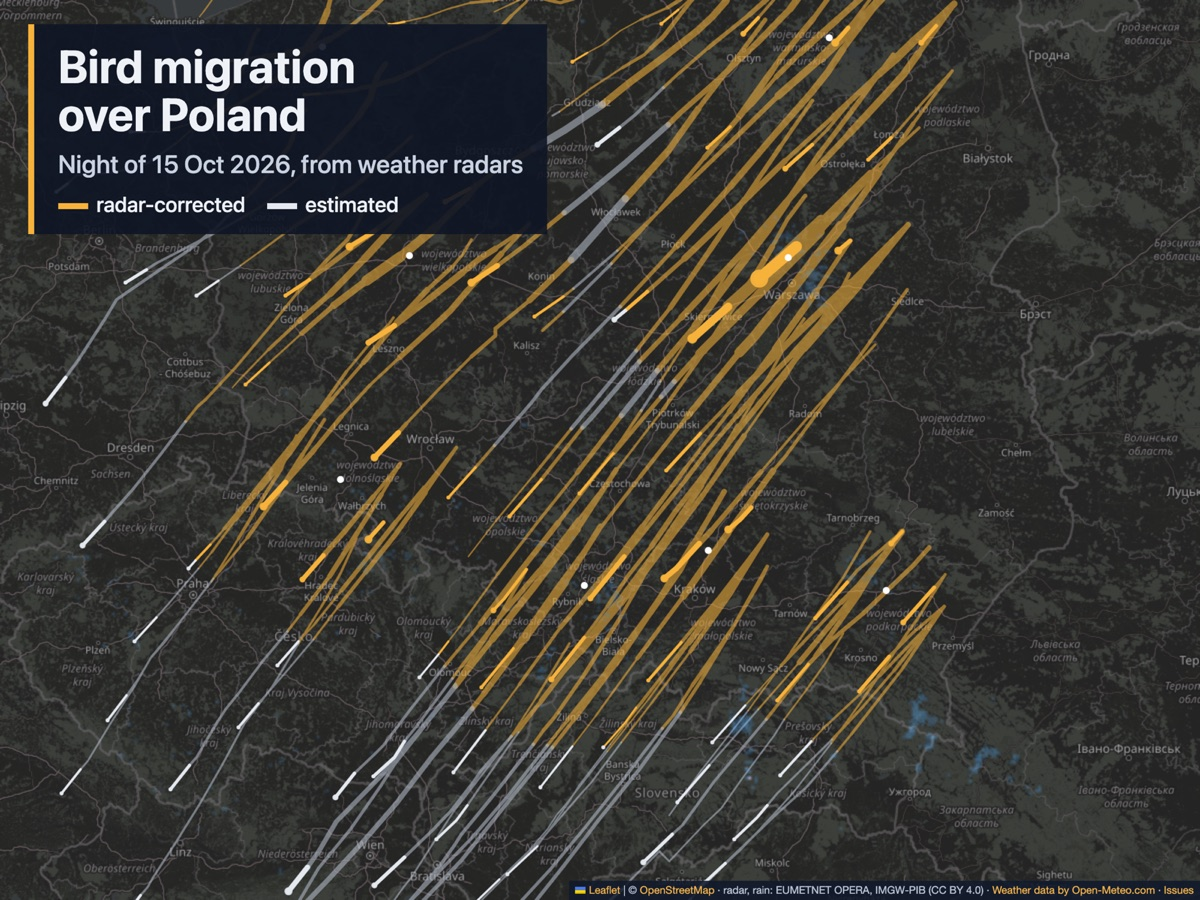
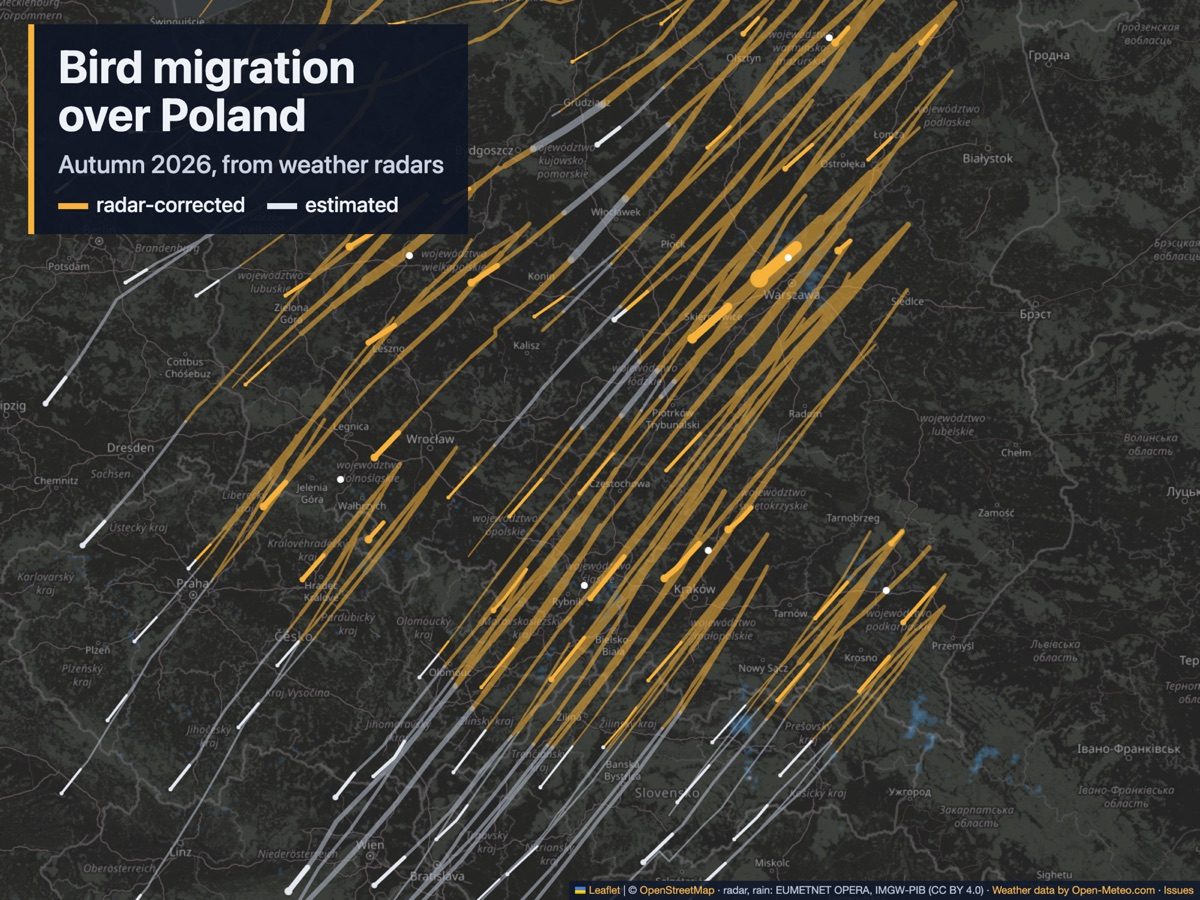
Remove the specific date from the preview image

Changed region(s): [[0.0308, 0.0, 0.4625, 0.28]]

diff --git a/index.html b/index.html
@@ -9,7 +9,7 @@
 <meta property="og:image" content="https://kazek.github.io/przelot-nad-polska/og-image.jpg">
 <meta property="og:image:width" content="1200">
 <meta property="og:image:height" content="900">
-<meta property="og:image:alt" content="Map of Poland with orange and grey bird migration routes heading south-west on the night of 15 October 2026">
+<meta property="og:image:alt" content="Map of Poland with orange and grey bird migration routes heading south-west">
 <meta name="twitter:card" content="summary_large_image">
 <link rel="stylesheet" href="https://unpkg.com/leaflet@1.9.4/dist/leaflet.css">
 <style>
